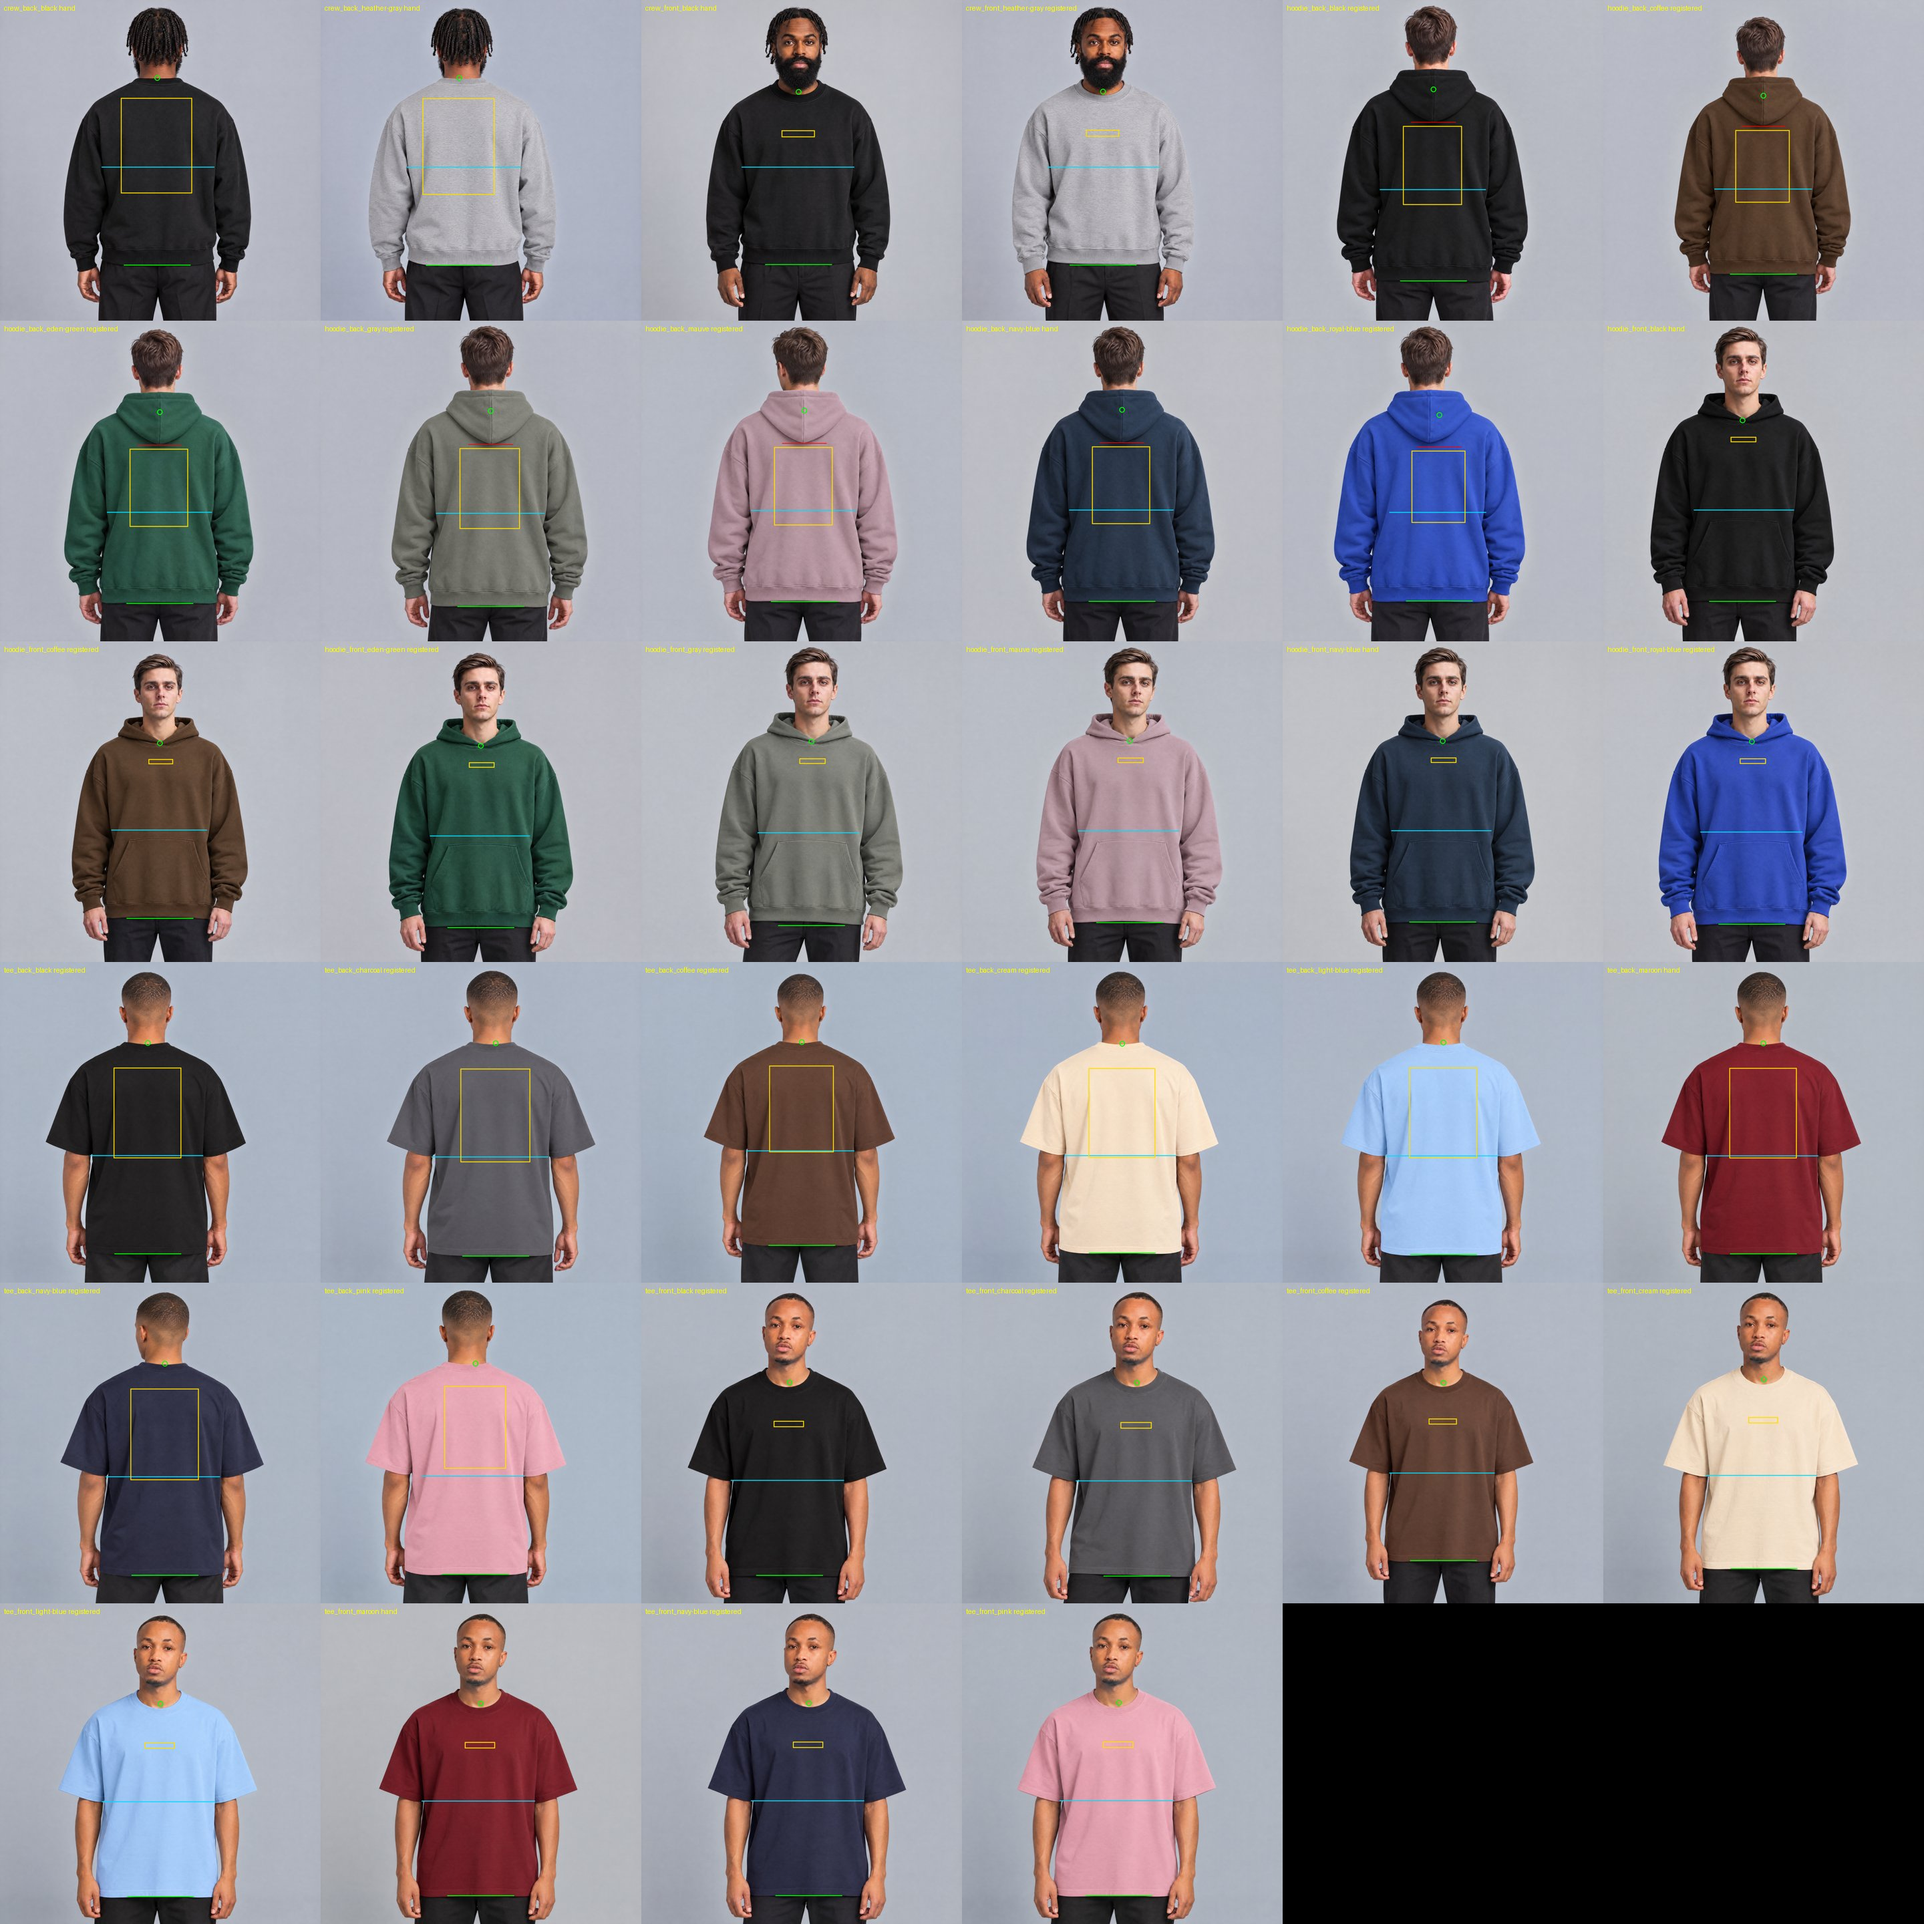
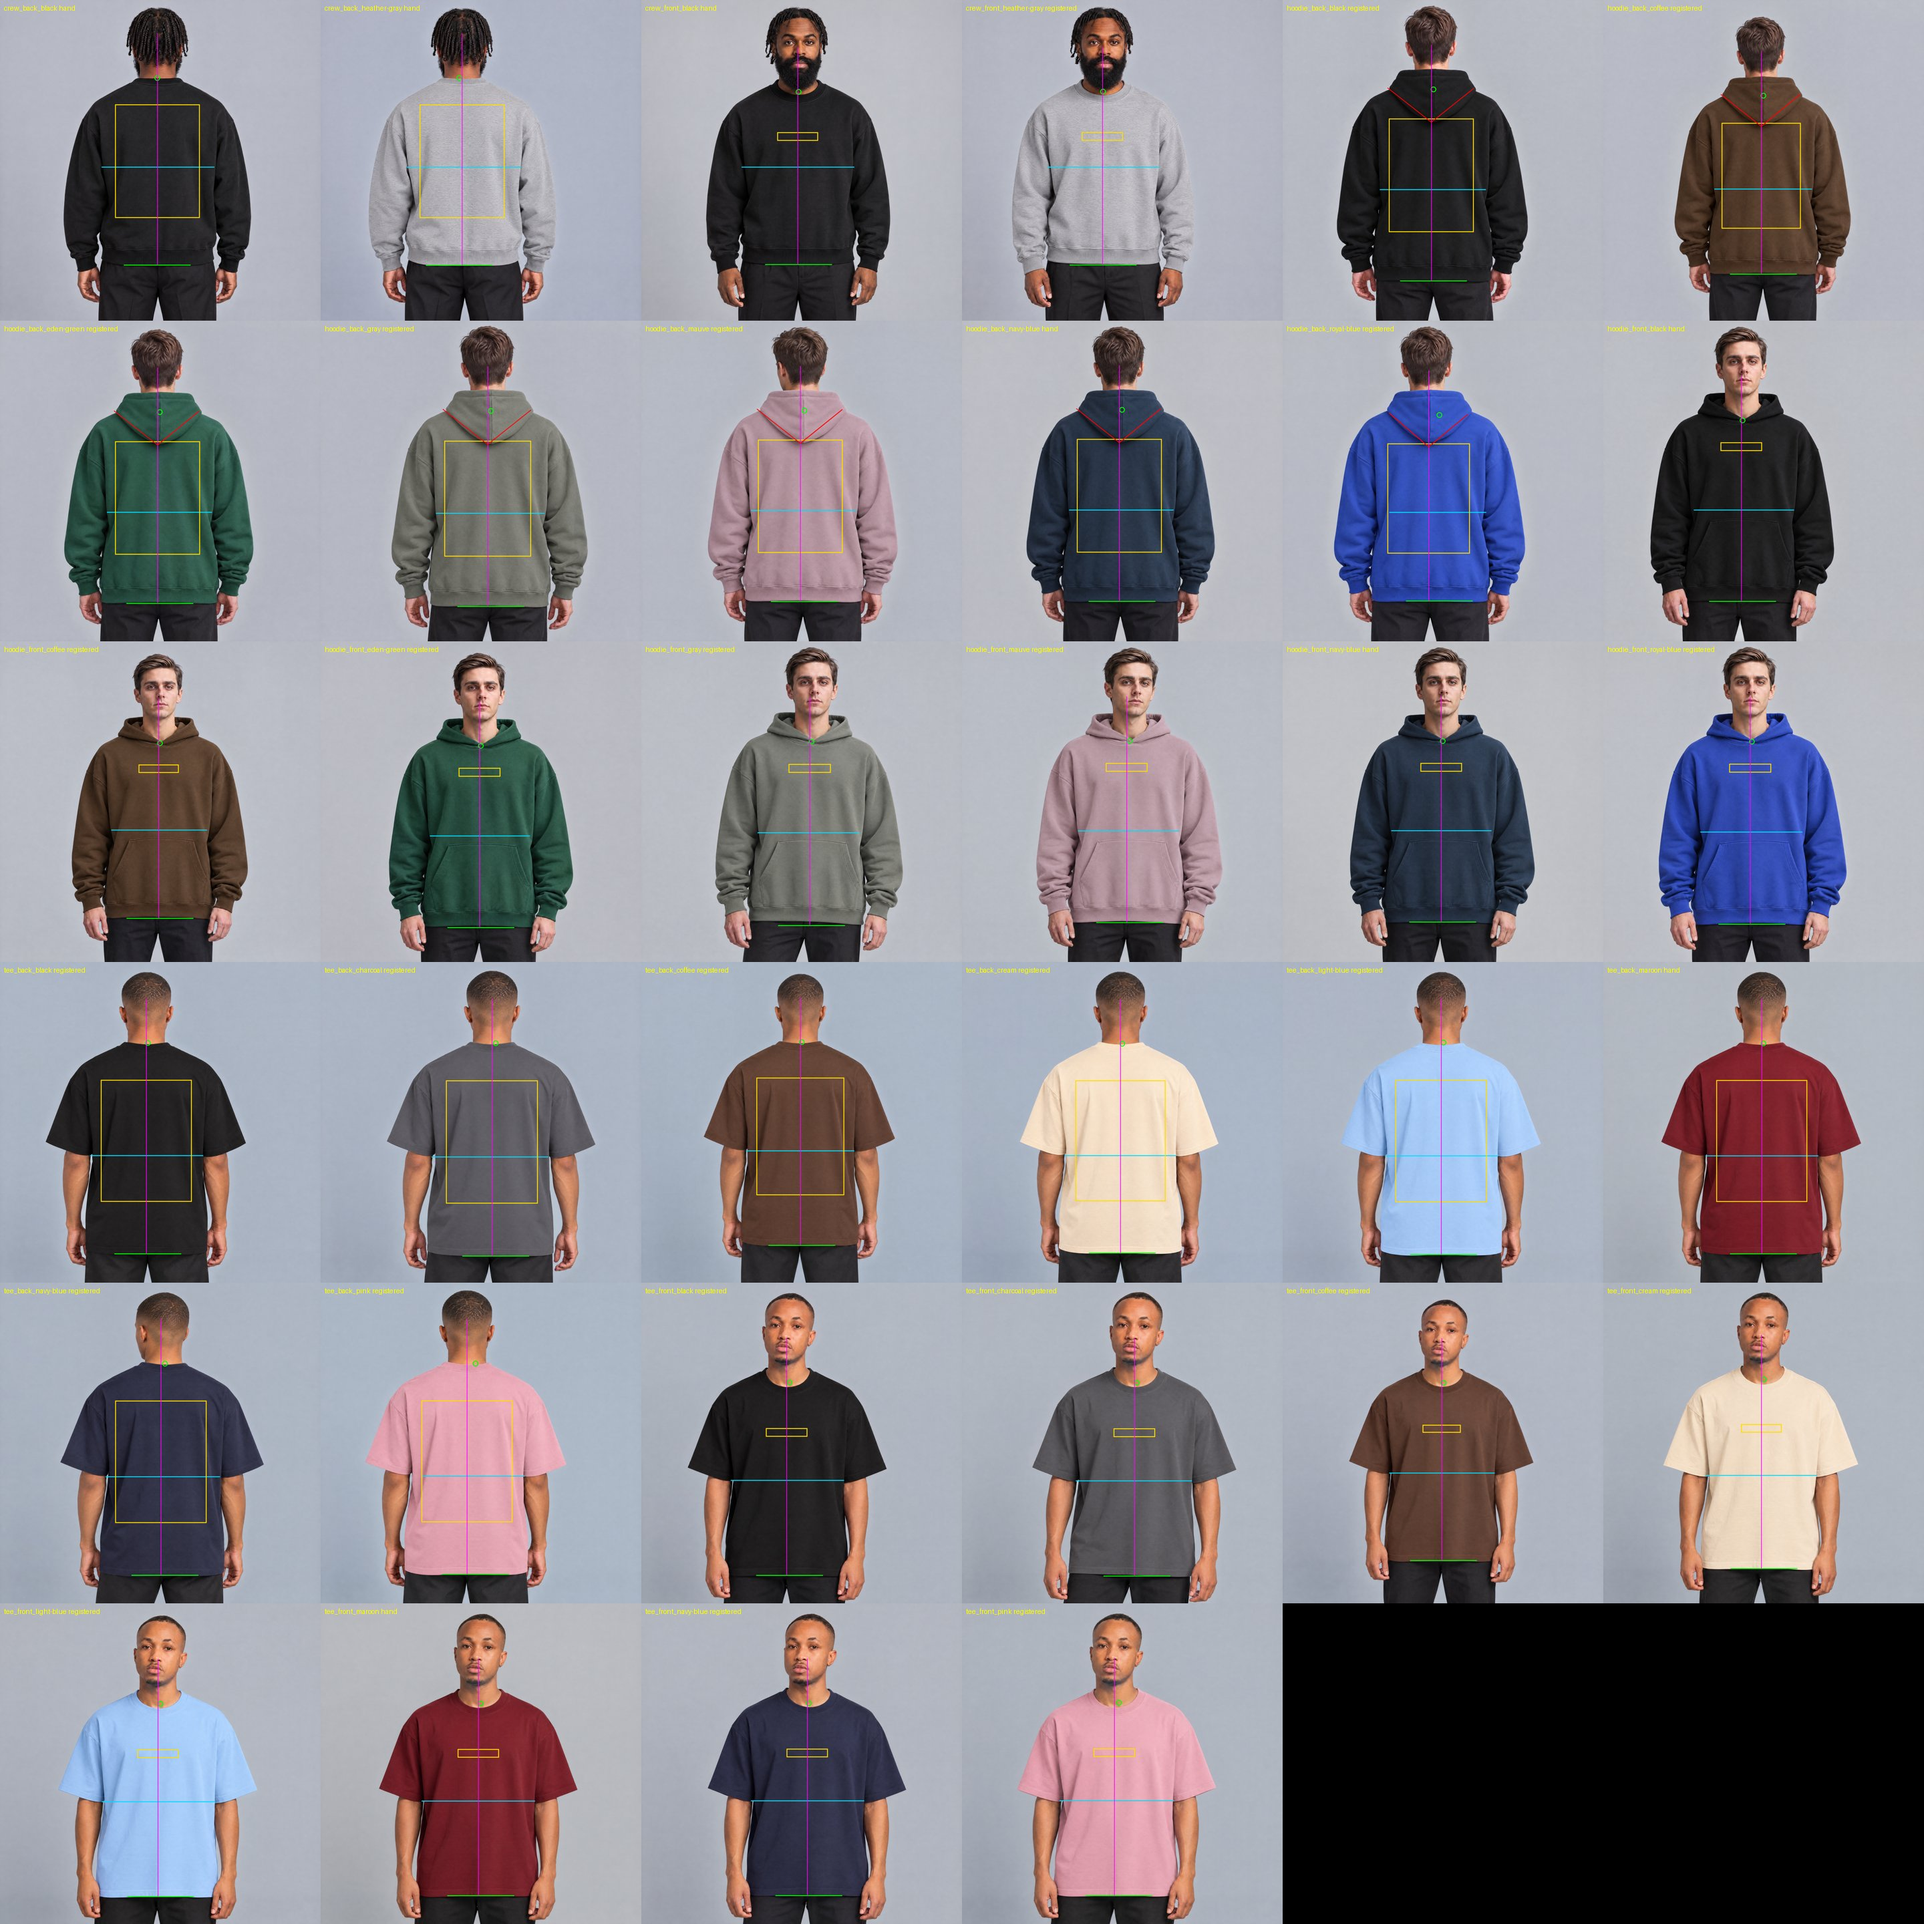
Map on-model: hood outline follows the measured centre line; landmarks with centre_x
Claude-Session: https://claude.ai/code/session_01XFpmDQkMABanSi7fEswVU4

diff --git a/artifacts/onmodel-maps/composite_maps.py b/artifacts/onmodel-maps/composite_maps.py
@@ -225,6 +225,8 @@ def hood_mask(L, shape):
     H, W = shape
     r = W / 2880
     (lx, ly), (px, py), (rx, ry) = (L["hood"][k] for k in ("left", "point", "right"))
+    dx = L.get("centre_x", px) - px          # the hood sits on the measured centre line
+    lx, px, rx = lx + dx, px + dx, rx + dx
     xs = np.linspace(lx, rx, 200)
     # a parabola through the three marks: the hood's two sides meeting at its point
     A = np.array([[lx * lx, lx, 1], [px * px, px, 1], [rx * rx, rx, 1]], float)
@@ -262,7 +264,8 @@ def sheet(lm):
         d.rectangle([left, top, left + w, top + h], outline=(255, 220, 0), width=8)
         d.line([(L.get("centre_x", cx), cy - 400), (L.get("centre_x", cx), L["hem"])], fill=(255, 0, 255), width=6)
         if "hood" in L:
-            d.line([tuple(L["hood"]["left"]), tuple(L["hood"]["point"]), tuple(L["hood"]["right"])],
+            dx = L.get("centre_x", L["hood"]["point"][0]) - L["hood"]["point"][0]
+            d.line([(x + dx, y) for x, y in (L["hood"]["left"], L["hood"]["point"], L["hood"]["right"])],
                    fill=(255, 0, 0), width=8)
         im = im.resize((480, 480))
         ImageDraw.Draw(im).text((6, 6), f"{name} {L['how']}", fill=(255, 255, 0))
